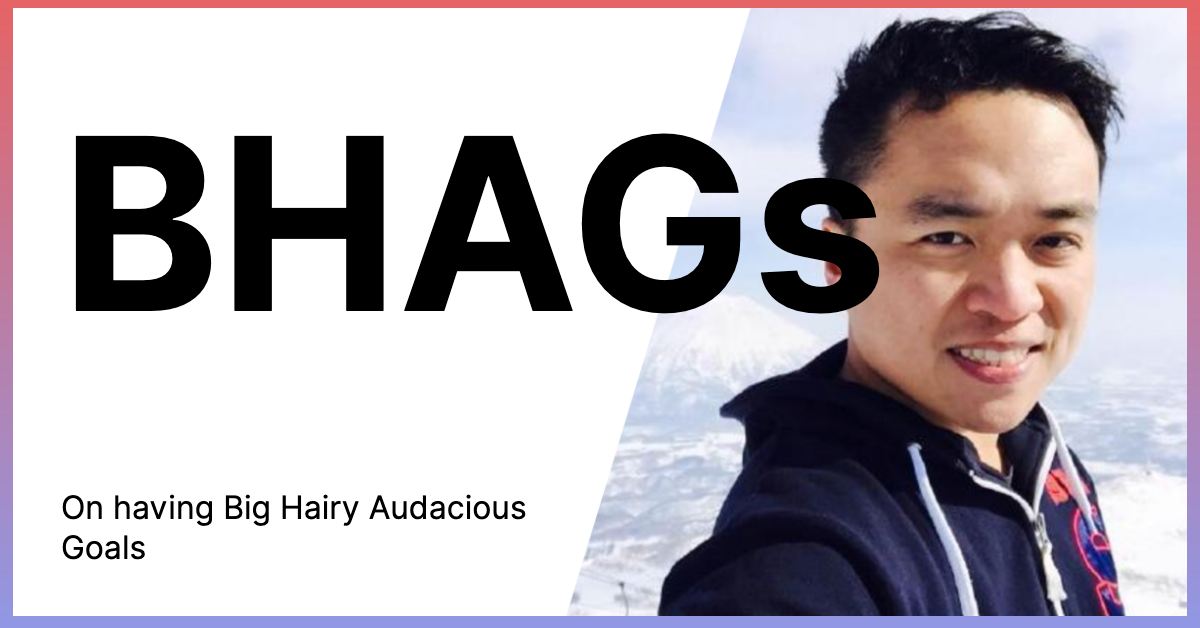
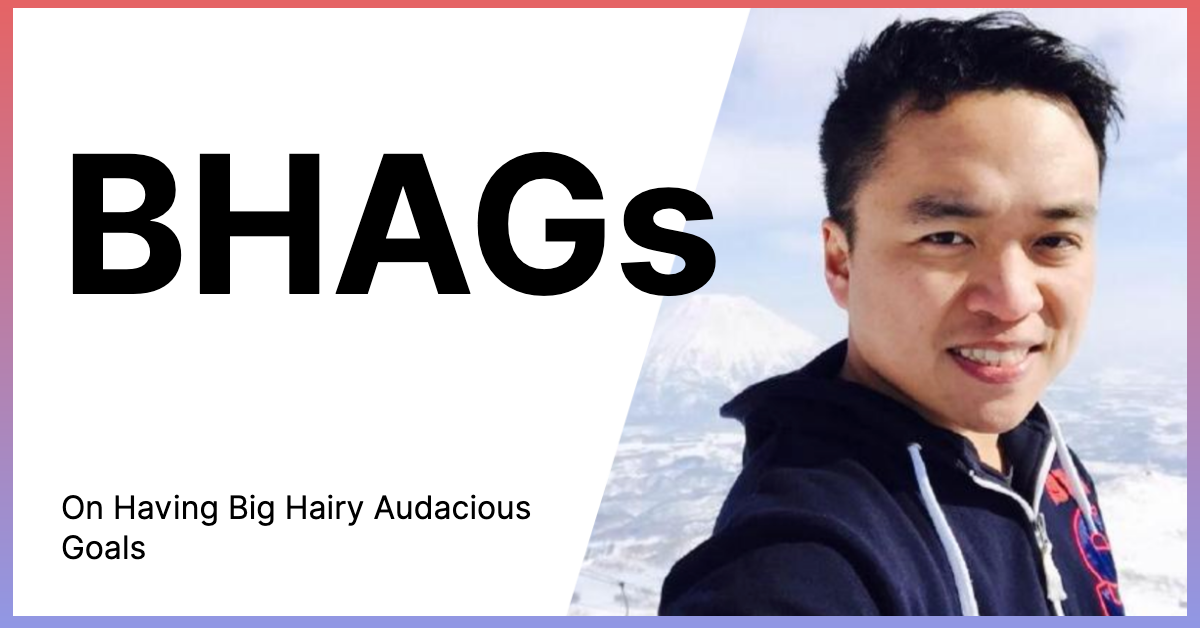
fix og image for bhags and add on index

Changed region(s): [[0.0617, 0.2118, 0.74, 0.5143], [0.0925, 0.7866, 0.4625, 0.8471]]

diff --git a/screenshot-plugin/cli.js b/screenshot-plugin/cli.js
@@ -3,11 +3,7 @@ const screenshot = require('./screenshot')
 ;(async function() {
   await screenshot(
     [
-      [
-        'writing/waterfall',
-        'Waterfall',
-        'What Software, Business, and the Chainsmokers have in common'
-      ]
+      ['writing/bhags', 'BHAGs', 'On Having Big Hairy Audacious Goals']
       // ['writing', "swyx's Blogposts and Writing"],
       // ['speaking', "swyx's Talks and Podcasts"]
       // [

diff --git a/screenshot-plugin/screenshot.js b/screenshot-plugin/screenshot.js
@@ -35,7 +35,7 @@ async function screenshot(
       subtitle,
       theme: 'light',
       md: true,
-      fontSize: Math.min(20, Math.max(7, Math.floor(100 / text.length))) + 'vw'
+      fontSize: Math.min(20, Math.max(7, Math.floor(80 / text.length))) + 'vw'
     })
     await page.setContent(html)
     await page.screenshot({ path: filePath })

diff --git a/src/routes/index.svelte b/src/routes/index.svelte
@@ -60,8 +60,8 @@
   <div id="CTA">
     Latest Post:
     <div>
-      <a href="/writing/narrow-waists">
-        <b>Narrow Waists</b>
+      <a href="/writing/bhags">
+        <b>On Big Hairy Audacious Goals</b>
       </a>
     </div>
   </div>
